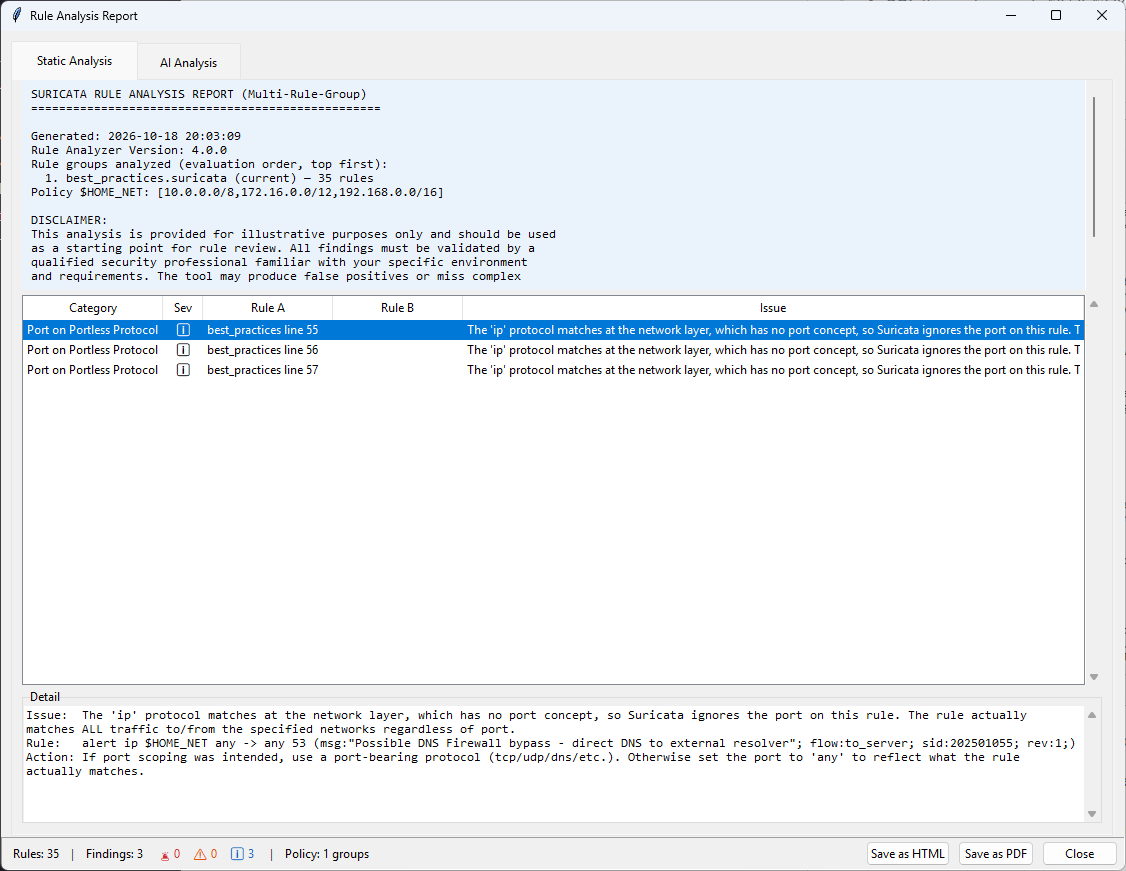
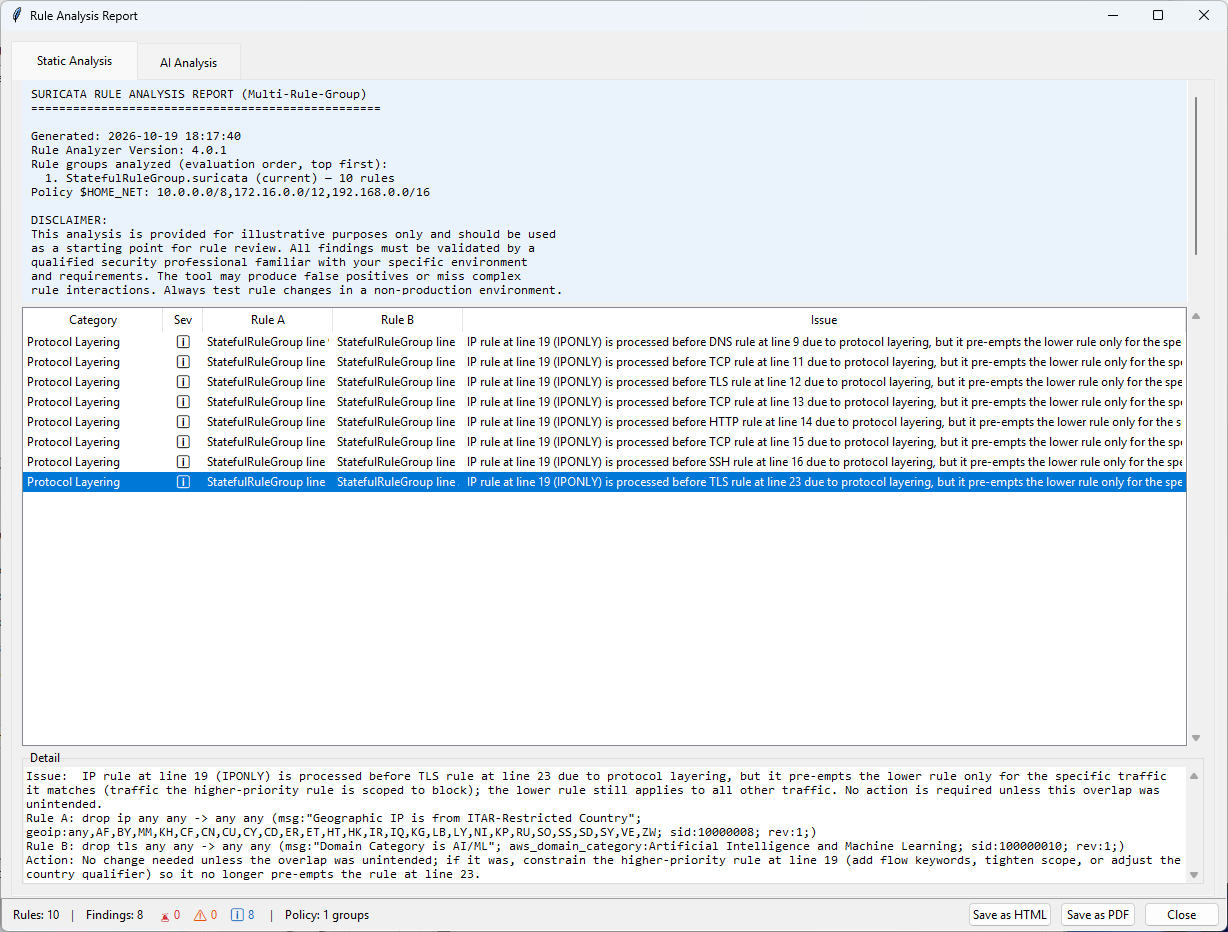
fixed minor bug with rule analyzer findings

diff --git a/src/analysis/rule_analyzer.py b/src/analysis/rule_analyzer.py
@@ -37,7 +37,7 @@ class RuleAnalyzer:
         Returns:
             Dictionary with conflict categories: {'critical': [], 'warning': [], 'info': [], 'protocol_layering': [], 'sticky_buffer_order': [], 'udp_flow_established': [], 'protocol_keyword_mismatch': []}
         """
-        conflicts = {'critical': [], 'warning': [], 'info': [], 'protocol_layering': [], 'sticky_buffer_order': [], 'udp_flow_established': [], 'protocol_keyword_mismatch': [], 'asymmetric_flow': [], 'reject_ip_protocol': [], 'reject_quic_protocol': [], 'unsupported_keywords': [], 'pcre_restrictions': [], 'priority_strict_order': [], 'port_on_portless_protocol': []}
+        conflicts = {'critical': [], 'warning': [], 'info': [], 'protocol_layering': [], 'sticky_buffer_order': [], 'udp_flow_established': [], 'protocol_keyword_mismatch': [], 'asymmetric_flow': [], 'reject_ip_protocol': [], 'reject_quic_protocol': [], 'unsupported_keywords': [], 'pcre_restrictions': [], 'priority_strict_order': []}
         
         # Filter out comments and blank lines for analysis
         actual_rules = [r for r in rules if not getattr(r, 'is_comment', False) and not getattr(r, 'is_blank', False)]
@@ -140,9 +140,6 @@ class RuleAnalyzer:
         reject_ip_issues = self.check_reject_on_ip_protocol(rules)
         conflicts['reject_ip_protocol'] = reject_ip_issues
         
-        # Check for concrete ports on portless (ip/icmp) protocol rules (informational)
-        conflicts['port_on_portless_protocol'] = self.check_port_on_portless_protocol(rules)
-        
         # Check for reject actions on QUIC protocol rules (AWS Network Firewall restriction)
         reject_quic_issues = self.check_reject_on_quic_protocol(rules)
         conflicts['reject_quic_protocol'] = reject_quic_issues
@@ -185,7 +182,6 @@ class RuleAnalyzer:
             'sticky_buffer_order': Severity.WARNING,
             'udp_flow_established': Severity.WARNING,
             'port_protocol_mismatch': Severity.INFORMATIONAL,
-            'port_on_portless_protocol': Severity.INFORMATIONAL,
             'contradictory_flow': Severity.WARNING,
             'packet_drop_flow_pass': Severity.WARNING,
             'reject_ip_protocol': Severity.CRITICAL,
@@ -4105,52 +4101,6 @@ class RuleAnalyzer:
         
         return forward_match
     
-    def _is_concrete_port(self, port: str) -> bool:
-        """Return True when ``port`` is a concrete port constraint.
-
-        A field is concrete when, after stripping, it is non-empty and not
-        case-insensitively ``any``. Unlike ``check_port_protocol_mismatch``,
-        this does NOT skip ``$``/``@``/``[`` tokens: a variable, namespaced, or
-        list port counts as concrete (only empty/``any`` are non-concrete).
-        """
-        p = (port or '').strip()
-        return bool(p) and p.lower() != 'any'
-
-    def check_port_on_portless_protocol(self, rules: List[SuricataRule]) -> List[Dict]:
-        """Flag ip/icmp rules carrying a concrete port (INFORMATIONAL).
-
-        The ``ip`` and ``icmp`` protocols match at the network layer, which has
-        no port concept, so Suricata ignores any port on such a rule. Emits
-        exactly one Informational finding per ip/icmp rule that has a concrete
-        src OR dst port (the ``or`` short-circuits into a single append).
-        """
-        issues = []
-
-        # Filter out comments and blank lines
-        actual_rules = [r for r in rules if not getattr(r, 'is_comment', False) and not getattr(r, 'is_blank', False)]
-
-        for rule in actual_rules:
-            line_num = rules.index(rule) + 1
-            protocol = rule.protocol.lower()
-            if protocol in ('ip', 'icmp') and (
-                    self._is_concrete_port(rule.src_port)
-                    or self._is_concrete_port(rule.dst_port)):
-                issue = {
-                    'line': line_num,
-                    'rule': rule,
-                    'issue': ("The '%s' protocol matches at the network layer, which has no "
-                              "port concept, so Suricata ignores the port on this rule. The "
-                              "rule actually matches ALL traffic to/from the specified "
-                              "networks regardless of port." % protocol),
-                    'suggestion': ("If port scoping was intended, use a port-bearing protocol "
-                                   "(tcp/udp/dns/etc.). Otherwise set the port to 'any' to "
-                                   "reflect what the rule actually matches."),
-                    'severity': 'informational',
-                }
-                issues.append(issue)
-
-        return issues
-
     def check_reject_on_ip_protocol(self, rules: List[SuricataRule]) -> List[Dict]:
         """Check for reject actions on IP protocol rules (AWS Network Firewall restriction)
         
@@ -4746,16 +4696,6 @@ class RuleAnalyzer:
                 report += f"   Rule: {self._export_rule_text(issue['rule'])}\n"
                 report += f"   Suggestion: {issue['suggestion']}\n\n"
         
-        # Port on portless (ip/icmp) protocol issues
-        if conflicts.get('port_on_portless_protocol'):
-            report += f"ℹ PORT ON PORTLESS PROTOCOL (INFO) ({len(conflicts['port_on_portless_protocol'])})\n"
-            report += f"-" * 30 + "\n"
-            for i, issue in enumerate(conflicts['port_on_portless_protocol'], 1):
-                report += f"{i}. {self._line_ref_for_field(issue, 'line', attribution)}\n"
-                report += f"   Issue: {issue['issue']}\n"
-                report += f"   Rule: {self._export_rule_text(issue['rule'])}\n"
-                report += f"   Suggestion: {issue['suggestion']}\n\n"
-        
         # Contradictory flow keywords
         if conflicts.get('contradictory_flow'):
             report += f"⚠ CONTRADICTORY FLOW KEYWORDS ({len(conflicts['contradictory_flow'])})\n"
@@ -5082,17 +5022,6 @@ class RuleAnalyzer:
             if conflicts.get('port_protocol_mismatch'):
                 html += f'<h2 class="info">ℹ PORT/PROTOCOL MISMATCH (INFO) ({len(conflicts["port_protocol_mismatch"])})</h2>'
                 for i, issue in enumerate(conflicts['port_protocol_mismatch'], 1):
-                    html += f'<div class="conflict conflict-info">'
-                    html += f'<strong>{i}. {self._line_ref_for_field(issue, "line", attribution)}</strong><br>'
-                    html += f'<strong>Issue:</strong> {issue["issue"]}<br>'
-                    html += f'<strong>Suggestion:</strong> {issue["suggestion"]}<br>'
-                    html += f'<div class="rule-text">Rule: {self._export_rule_text(issue["rule"])}</div>'
-                    html += '</div>'
-            
-            # Port on portless (ip/icmp) protocol issues
-            if conflicts.get('port_on_portless_protocol'):
-                html += f'<h2 class="info">ℹ PORT ON PORTLESS PROTOCOL (INFO) ({len(conflicts["port_on_portless_protocol"])})</h2>'
-                for i, issue in enumerate(conflicts['port_on_portless_protocol'], 1):
                     html += f'<div class="conflict conflict-info">'
                     html += f'<strong>{i}. {self._line_ref_for_field(issue, "line", attribution)}</strong><br>'
                     html += f'<strong>Issue:</strong> {issue["issue"]}<br>'

diff --git a/src/analysis/finding_model.py b/src/analysis/finding_model.py
@@ -53,7 +53,6 @@ class Category:
     UDP_FLOW_ESTABLISHED = "udp_flow_established"
     PROTOCOL_KEYWORD_MISMATCH = "protocol_keyword_mismatch"
     PORT_PROTOCOL_MISMATCH = "port_protocol_mismatch"
-    PORT_ON_PORTLESS_PROTOCOL = "port_on_portless_protocol"
     CONTRADICTORY_FLOW = "contradictory_flow"
     PACKET_DROP_FLOW_PASS = "packet_drop_flow_pass"
     ASYMMETRIC_FLOW = "asymmetric_flow"
@@ -77,7 +76,6 @@ ALLOWED_SEVERITIES = {
     Category.UDP_FLOW_ESTABLISHED: {Severity.WARNING},
     Category.PROTOCOL_KEYWORD_MISMATCH: {Severity.WARNING, Severity.INFORMATIONAL},
     Category.PORT_PROTOCOL_MISMATCH: {Severity.INFORMATIONAL},
-    Category.PORT_ON_PORTLESS_PROTOCOL: {Severity.INFORMATIONAL},
     Category.CONTRADICTORY_FLOW: {Severity.WARNING},
     Category.PACKET_DROP_FLOW_PASS: {Severity.WARNING},
     Category.ASYMMETRIC_FLOW: {Severity.CRITICAL, Severity.WARNING},

diff --git a/src/gui/ignorable_report_view.py b/src/gui/ignorable_report_view.py
@@ -81,7 +81,6 @@ _CATEGORY_ORDER = (
     ("udp_flow_established", "UDP flow:established"),
     ("protocol_keyword_mismatch", "Protocol/Keyword Mismatch"),
     ("port_protocol_mismatch", "Port/Protocol Mismatch"),
-    ("port_on_portless_protocol", "Port on Portless Protocol"),
     ("contradictory_flow", "Contradictory Flow"),
     ("packet_drop_flow_pass", "Packet/Flow Action"),
     ("asymmetric_flow", "Asymmetric Flow"),
@@ -103,7 +102,6 @@ _CATEGORY_SEV = {
     "sticky_buffer_order": "⚠",
     "udp_flow_established": "⚠",
     "port_protocol_mismatch": "ℹ",
-    "port_on_portless_protocol": "ℹ",
     "contradictory_flow": "⚠",
     "packet_drop_flow_pass": "⚠",
     "asymmetric_flow": "⚠",

diff --git a/src/agent/rule_analyzer_wrapper.py b/src/agent/rule_analyzer_wrapper.py
@@ -22,7 +22,6 @@ _CATEGORY_MAP = {
     "udp_flow_established": ("keyword_mismatch", "warning"),
     "protocol_keyword_mismatch": ("keyword_mismatch", "warning"),
     "port_protocol_mismatch": ("keyword_mismatch", "warning"),
-    "port_on_portless_protocol": ("keyword_mismatch", "info"),
     "contradictory_flow": ("contradictory_flow", "error"),
     "packet_drop_flow_pass": ("contradictory_flow", "warning"),
     "asymmetric_flow": ("contradictory_flow", "warning"),

diff --git a/src/core/version.py b/src/core/version.py
@@ -6,10 +6,10 @@ The rule analyzer and flow tester have their own separate version numbers.
 """
 
 # Main program version - update this single location for version changes
-MAIN_VERSION = "2.11.0"
+MAIN_VERSION = "2.11.1"
 
 # Rule analyzer version (managed separately)
-ANALYZER_VERSION = "4.0.0"
+ANALYZER_VERSION = "4.0.1"
 
 # Flow tester version (managed separately)
 FLOW_TESTER_VERSION = "1.3.0"

diff --git a/RELEASE_NOTES.md b/RELEASE_NOTES.md
@@ -1,5 +1,13 @@
 # Release Notes
 
+## Version 2.11.1 - October 19, 2026
+
+### Bug fix: removed an inaccurate "port on portless protocol" analyzer finding (Rule Analyzer v4.0.1)
+
+The rule analyzer previously emitted an informational finding claiming that a concrete port on an `ip` or `icmp` rule is ignored because those protocols match at the network layer. This finding was inaccurate and the destination port IS honored. The finding and its "Port on Portless Protocol" category have been removed. No other findings are affected.
+
+---
+
 ## Version 2.11.0 - October 18, 2026
 
 ### Interactive Static Analysis Report with Finding Ignore/Acknowledge, and a More Accurate Rule Analyzer (Rule Analyzer v4.0.0)
@@ -22,7 +30,6 @@ This release reworks the **Static Analysis** report into an interactive, master-
 - **Protocol-layering suggestions tell the truth about ordering**: For findings driven by Suricata's rule-type processing order (IP-only before packet before app-layer), the report no longer advises a reordering that cannot help — not "move line X above line Y" within a file, and not "evaluate this rule group before that one" across groups. Because processing order is determined by rule type, not file or group position, reordering changes nothing for these findings. The suggestion now advises constraining the higher-priority rule (add flow keywords, tighten scope, use a port-bearing protocol, or add a country qualifier) or leaving it as intended.
 - **Fewer false conflicts between rules that cannot overlap**: Two rules whose networks provably do not intersect are no longer reported as conflicting. In particular, a rule whose destination is an internal subnet no longer appears to conflict with a rule whose destination is a negated set that excludes that subnet (for example `!$HOME_NET`), once the variables resolve to their real values per rule group. This is a conservative, proof-based change: a pair is suppressed only when non-overlap is certain; anything the analyzer cannot fully resolve is still flagged, so genuine conflicts are never missed.
 - **Each protocol-layering interaction is reported once**: Inter-type findings are no longer double-counted.
-- **Meaningless port on a portless protocol**: An `ip` or `icmp` rule that specifies a source or destination port (other than `any`) now produces an informational finding explaining that these protocols match at the network layer, which has no port concept — Suricata ignores the port, so the rule actually matches all traffic to/from the specified networks. The suggestion recommends a port-bearing protocol (tcp/udp/dns/…) if port scoping was intended.
 - **Domain apex + subdomain consolidation**: When two `pass` rules together cover a domain's apex and its subdomains (TLS or HTTP), the analyzer recognizes they are not actually redundant and suggests consolidating them into a single, precise rule using the `dotprefix` transform — tailored to your own rule's variables and keywords when possible. This works whether the two rules live in the same rule group or in different groups of a multi-group / firewall-policy review.
 - **Catches an over-broad "apex" allowlist mistake**: If the apex rule is written with an unanchored `endswith` and no `startswith`, it silently also allows look-alike domains (for example, a rule meant for `box.com` also allows `notbox.com`). The analyzer now flags this as a **Warning** and suggests the precise `dotprefix` replacement.
 

diff --git a/README.md b/README.md
@@ -2,7 +2,7 @@
 
 > ⚠ **Disclaimer:** This is a sample tool provided to assist with the Suricata rule writing process. All rules generated by this tool are the customer's responsibility to properly vet, test, and validate before use. This tool does not assume responsibility for any rules generated. We strongly recommend testing all new rules in a DEV/TEST environment before deploying them to a production environment.
 
-**Current Version: 2.11.0**
+**Current Version: 2.11.1**
 
 A GUI application for creating, editing, and managing Suricata rules - specifically designed for AWS Network Firewall deployments using strict rule ordering.
 
@@ -2498,7 +2498,6 @@ Rule analyzer v4.0.0 improves how findings are categorized and how fixes are sug
 - **Truthful ordering suggestions**: For protocol-layering findings driven by Suricata's rule-type processing order (IP-only before packet before app-layer), the report no longer suggests a reordering that cannot help — neither "move line X above line Y" within a file nor "evaluate this rule group before that one" across groups, since processing order depends on rule type, not position. It advises constraining the higher-priority rule (add flow keywords, tighten scope, use a port-bearing protocol, or add a country qualifier) or leaving it as intended.
 - **Fewer false conflicts (provable-disjointness overlap)**: Two rules whose networks provably cannot intersect are no longer flagged as conflicting — notably a rule whose destination is an internal subnet versus a rule whose destination is a negated set that excludes it (for example `!$HOME_NET`), once each group's variables resolve to their real values. This is conservative and proof-based: a pair is suppressed only when non-overlap is certain, so anything the analyzer cannot fully resolve is still flagged and genuine conflicts are never missed.
 - **No double-reporting**: Each protocol-layering interaction is reported once per rule pair.
-- **Meaningless port on a portless protocol**: An `ip` or `icmp` rule with a source or destination port other than `any` gets an informational finding — these protocols match at the network layer, which has no port concept, so Suricata ignores the port and the rule actually matches all traffic to/from the specified networks. The suggestion recommends a port-bearing protocol (tcp/udp/dns/…) if port scoping was intended.
 - **Domain apex + subdomain consolidation**: When two `pass` rules together cover a domain's apex and its subdomains (TLS `tls.sni` or HTTP `http.host`), the analyzer recognizes they are not actually redundant and suggests one precise rule using the `dotprefix` transform — tailored to your own variables and keywords when the two rules agree. It works whether the two rules are in the same group or in different groups of a multi-group / firewall-policy review.
 - **Over-broad "apex" rule warning**: If an apex rule is written with an unanchored `endswith` and no `startswith`, it silently also allows look-alike domains (a rule meant for `box.com` also allows `notbox.com`). The analyzer flags this as a **Warning** and suggests the precise `dotprefix` replacement.
 

diff --git a/docs/rule_analysis_categories.md b/docs/rule_analysis_categories.md
@@ -31,7 +31,6 @@ window's *Category* column.
 | **UDP flow:established** | ⚠ Warning | A UDP or ICMP rule uses `flow:established` with a `drop`/`reject` action. These flows are only "established" after bidirectional traffic, so the first packet (such as a DNS query or echo request) is never blocked — a security gap. Example: `drop udp any any -> any 53 (flow:established; ...)`. |
 | **Protocol/Keyword Mismatch** | ⚠ Warning · ℹ Informational | A rule's protocol is incompatible with (Warning) or less specific than (Informational) an application-layer keyword it uses. Example (Warning): a `udp` rule using `http.host`; (Informational): a `tcp` rule using `tls.sni` where protocol `tls` would be clearer. |
 | **Port/Protocol Mismatch** | ℹ Informational | A protocol appears on an unusual or unexpected port, which may indicate a configuration slip. Example: `tls` traffic scoped to port `80` instead of `443`. |
-| **Port on Portless Protocol** | ℹ Informational | An `ip` or `icmp` rule carries a concrete port. These protocols match at the network layer and have no port concept, so Suricata ignores the port — the rule matches all traffic to/from the networks regardless of port. Example: `pass ip $HOME_NET any -> any 443` actually matches every port. |
 | **Contradictory Flow** | ⚠ Warning | A single rule combines mutually exclusive flow keywords. Example: `flow:to_server,to_client` (can't be both directions) or `flow:established,not_established`. |
 | **Packet/Flow Action** | ⚠ Warning | A packet-scope `drop`/`reject` conflicts with a flow-scope `pass`. Behavior was ambiguous before Suricata 8.0 (deconfliction was added there). Example: a packet rule `drop tcp ...` alongside a flow `pass` on the same session. |
 | **Asymmetric Flow** | 🚨 Critical · ⚠ Warning | Rules allow one direction of a conversation but block the return direction, breaking bidirectional communication. Critical when the return path is fully blocked; Warning for a narrower mismatch. Example: `pass ... flow:to_server` for `sub.example.com` with a `drop ... flow:to_client` on the same pair. |
